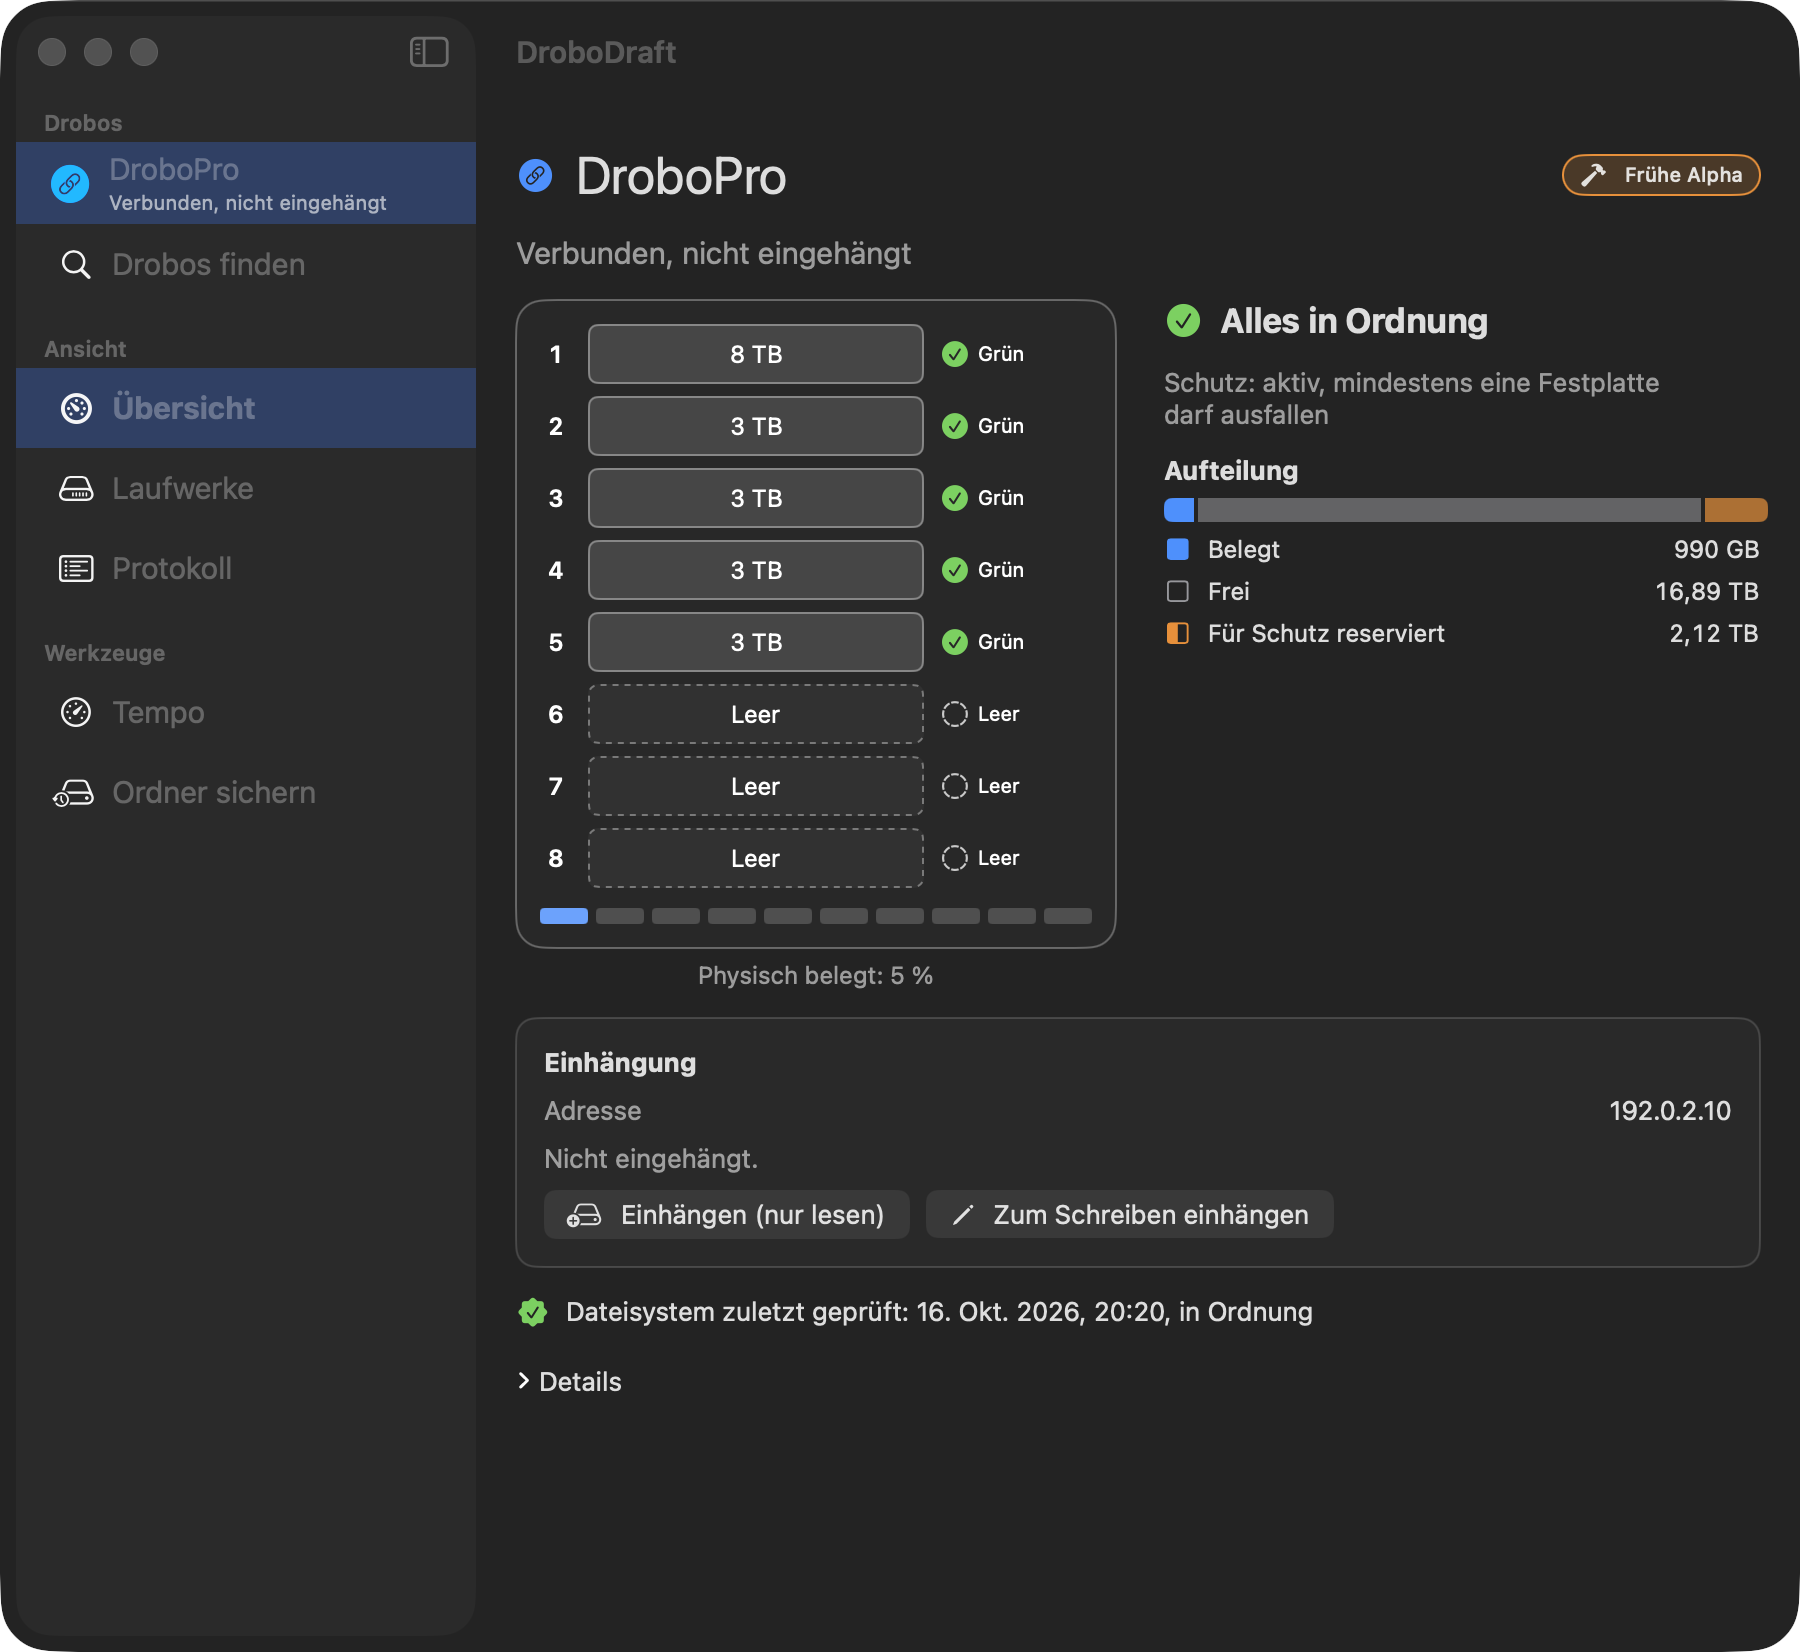
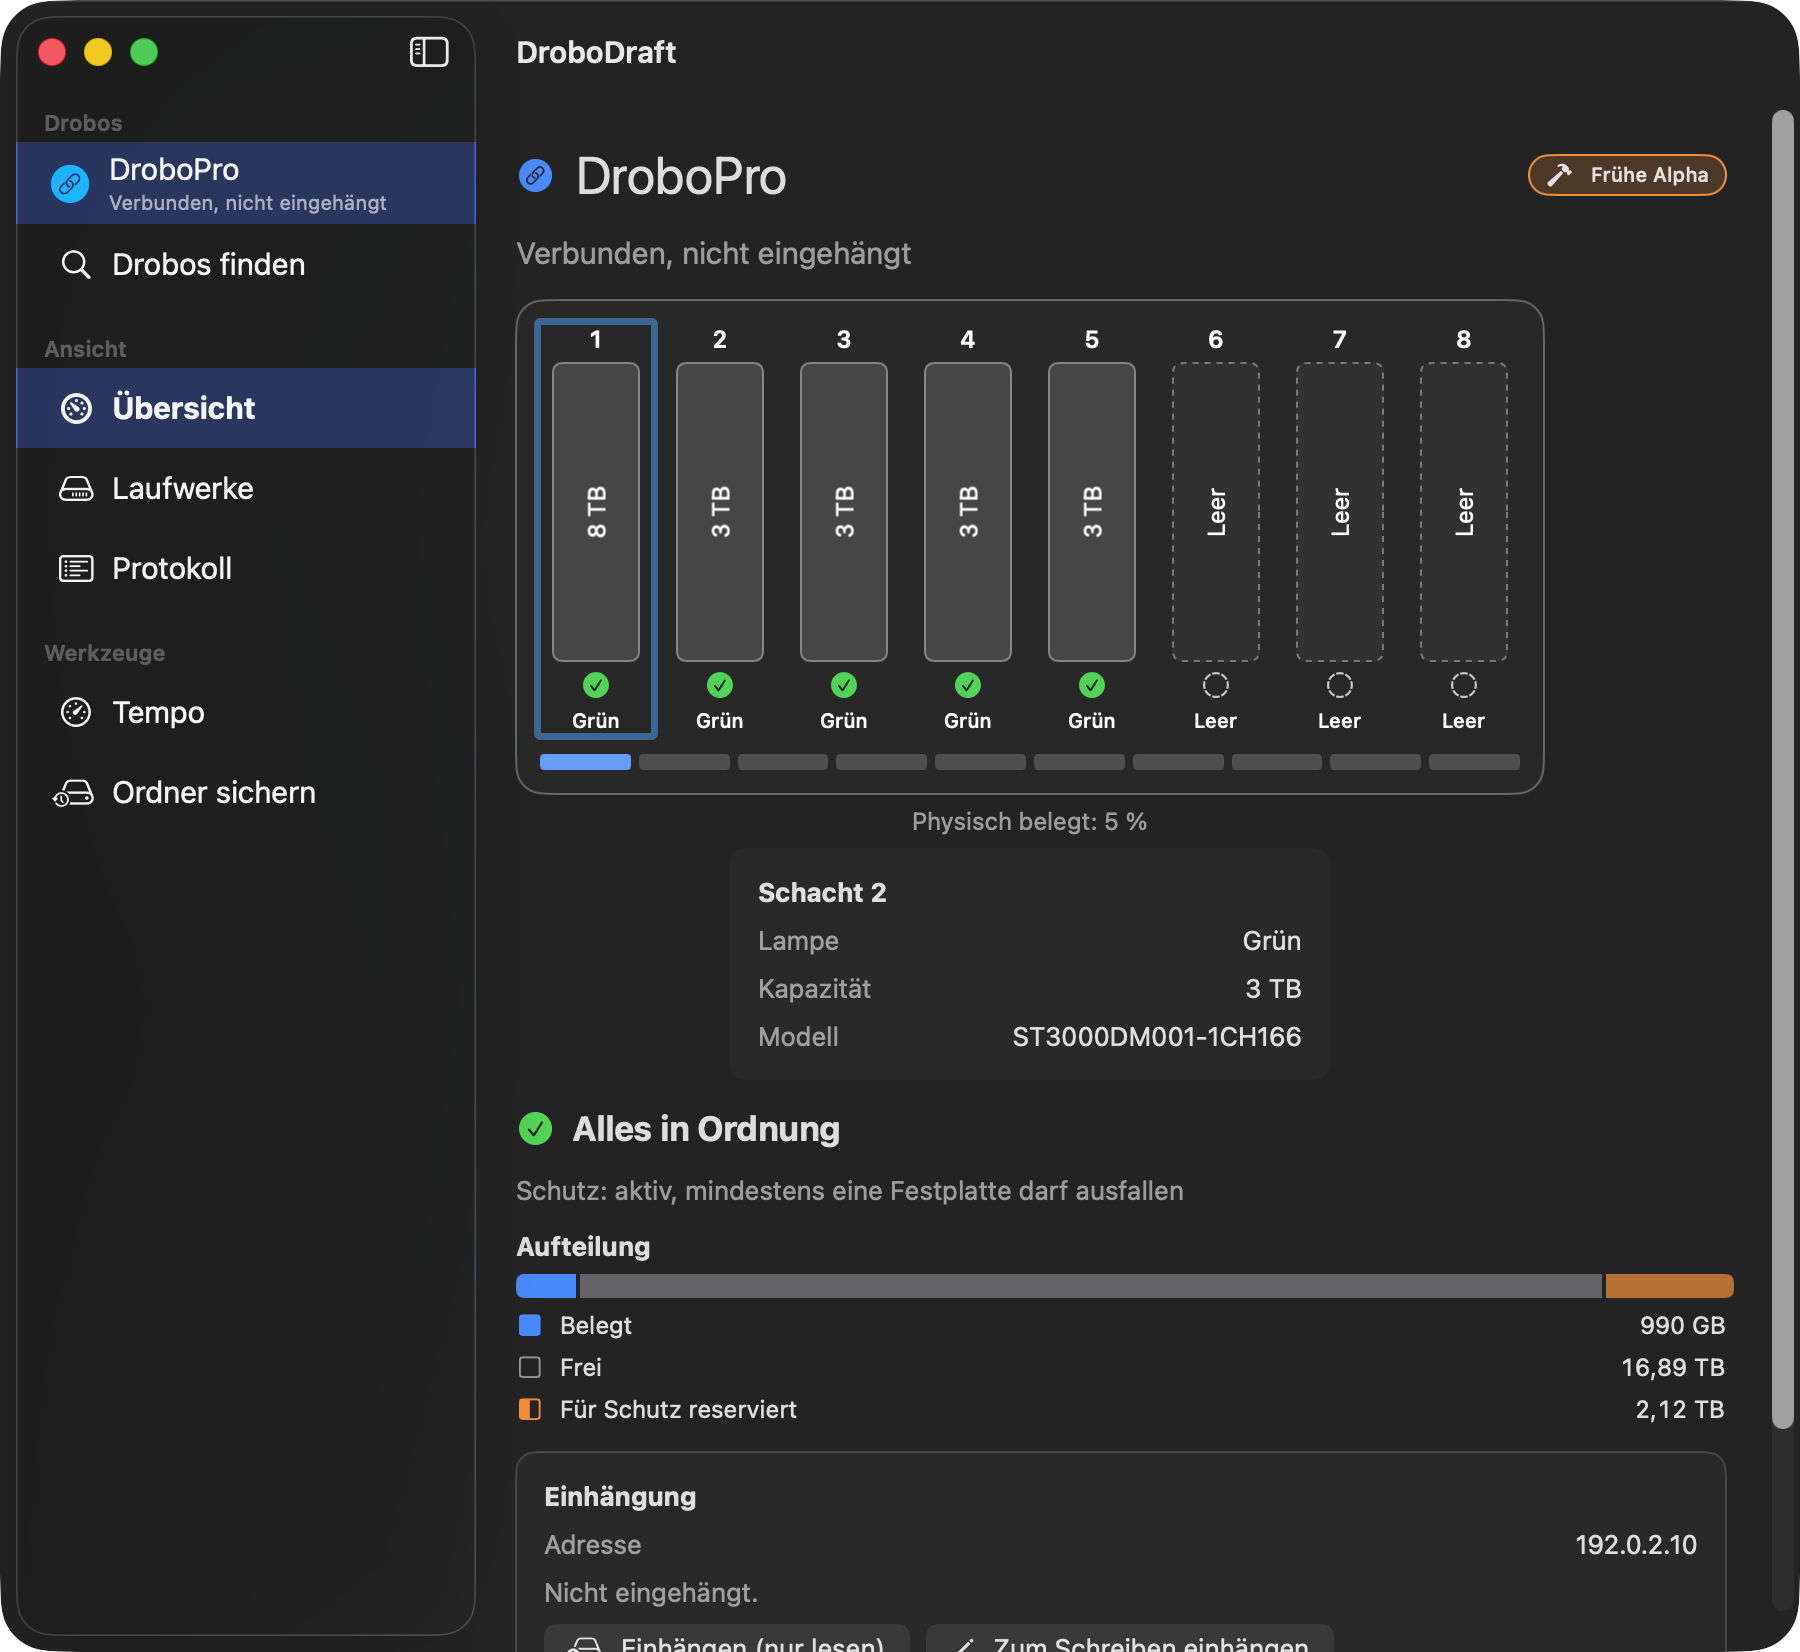
feat(app): 8-bay Drobo drawn with upright side-by-side bays; no sensor rows for the DroboPro
Operator: only the 5-bay Drobo stands upright with stacked slots; the 8-bay
model has vertical slots side by side. Orientation is now a property of the
model (GeraeteLage), 5C stays stacked with bay 1 on top (calibrated on the
device), the DroboPro lays out bay 1 at the left (ASSUMPTION, marked in code:
calibrate by blinking later). Capacity is rotated inside the slot, lamp symbol
and word below, fill strip stays horizontal; ViewThatFits moves the state
column below a wide device. VoiceOver order = bay number. Since page 0x35 never
answers on the DroboPro, its detail shows no temperature/life/error rows and no
placeholder. Demo screenshot replaced.

diff --git a/fskit_probe/App/GeraetBild.swift b/fskit_probe/App/GeraetBild.swift
@@ -4,6 +4,18 @@ import SwiftUI
 /// Gezeichnete Vorderansicht der Drobo: eigene SwiftUI-Formen, kein Logo und keine Grafik des Herstellers.
 /// Schacht 1 oben (am Geraet geeicht 2026-10-16), Lampe je Schacht als Farbe + Symbol + Wort (WCAG 1.4.1), Fuellstandsleiste unten wie am Geraet.
 /// VoiceOver: das Geraet ist ein Container, jeder Schacht ein eigenes Element; Tastaturfokus je Schacht (Button), Klick/Leertaste oeffnet die Einzelheiten.
+/// Einbaulage der Platten: Eigenschaft des MODELLS (nicht der Schachtzahl allein).
+/// gestapelt = waagerechte Einschuebe untereinander, Schacht 1 oben (Drobo 5C: am Geraet geeicht 2026-10-16).
+/// nebeneinander = senkrechte Einschuebe, Schacht 1 links (DroboPro/8 Schaechte: ANNAHME nach Betreiberhinweis, OFFEN: am Geraet per Blinken eichen).
+enum GeraeteLage {
+    case gestapelt, nebeneinander
+    static func von(modell: String, schaechte: Int) -> GeraeteLage {
+        if modell.localizedCaseInsensitiveContains("pro") { return .nebeneinander }   // DroboPro, 8 Schaechte
+        if modell.hasPrefix("5") { return .gestapelt }                                // Drobo 5C / 5D
+        return schaechte > 5 ? .nebeneinander : .gestapelt                            // unbekanntes Modell: nach Schachtzahl
+    }
+}
+
 struct DroboGeraet: View {
     let h: DroboStatus
     let g: Gesamtzustand
@@ -13,15 +25,25 @@ struct DroboGeraet: View {
     /// 5 Schaechte (Drobo 5C) oder 8 (DroboPro); die Statusseite nennt die Zahl, sonst das Modell.
     var anzahl: Int { h.schaechte.isEmpty ? (h.modell.localizedCaseInsensitiveContains("pro") ? 8 : 5) : h.schaechte.count }
 
+    var lage: GeraeteLage { .von(modell: h.modell, schaechte: anzahl) }
+
     var body: some View {
         VStack(spacing: 6) {
-            ForEach(1...anzahl, id: \.self) { n in
-                SchachtFeld(nr: n, s: h.schaechte.first { $0.nr == n }, mitFehler: mitFehler, offen: $offen)
+            if lage == .gestapelt {
+                ForEach(1...anzahl, id: \.self) { n in
+                    SchachtFeld(nr: n, s: h.schaechte.first { $0.nr == n }, mitFehler: mitFehler, lage: lage, offen: $offen)
+                }
+            } else {
+                HStack(alignment: .top, spacing: 6) {   // Reihenfolge = Schachtnummer, auch fuer VoiceOver
+                    ForEach(1...anzahl, id: \.self) { n in
+                        SchachtFeld(nr: n, s: h.schaechte.first { $0.nr == n }, mitFehler: mitFehler, lage: lage, offen: $offen)
+                    }
+                }
             }
             FuellLeiste(anteil: g.belegtAnteil).padding(.top, 4)
         }
         .padding(12)
-        .frame(width: 300)
+        .frame(width: lage == .gestapelt ? 300 : CGFloat(anzahl) * 56 + 6 * CGFloat(anzahl - 1) + 24)
         .background(RoundedRectangle(cornerRadius: 14).fill(Color(white: 0.14)))
         .overlay(RoundedRectangle(cornerRadius: 14).stroke(Color.white.opacity(0.3), lineWidth: 1))
         .environment(\.colorScheme, .dark)   // Geraet bleibt dunkel, auch im hellen Modus; Systemfarben passen sich an
@@ -45,25 +67,36 @@ struct SchachtFeld: View {
     let nr: Int
     let s: Schacht?
     let mitFehler: Bool
+    var lage: GeraeteLage = .gestapelt
     @Binding var offen: Int?
     var belegt: Bool { s?.belegt ?? false }
+    var farbe: SchachtFarbe { s?.farbe ?? .leer }
+    var lampe: Color { farbe.farbe == .secondary ? Color.white.opacity(0.75) : farbe.farbe }
+    var kapText: String { belegt ? groesseText(s?.kapazitaet ?? 0) : String(localized: "Leer") }
 
     var body: some View {
         let beschreibung = schachtBeschreibung(nr: nr, s: s, mitFehler: mitFehler)
         Button { offen = nr } label: {
-            HStack(spacing: 8) {
-                Text("\(nr)").font(.callout.bold().monospacedDigit()).foregroundStyle(.white).frame(width: 16)
-                ZStack {
-                    RoundedRectangle(cornerRadius: 5).fill(Color.white.opacity(belegt ? 0.14 : 0.04))
-                    RoundedRectangle(cornerRadius: 5).strokeBorder(Color.white.opacity(0.35), style: StrokeStyle(lineWidth: 1, dash: belegt ? [] : [3, 3]))
-                    Text(belegt ? groesseText(s?.kapazitaet ?? 0) : String(localized: "Leer")).font(.callout).foregroundStyle(.white).monospacedDigit()
-                }.frame(height: 30)
-                HStack(spacing: 4) {
-                    Image(systemName: (s?.farbe ?? .leer).symbol).foregroundStyle((s?.farbe ?? .leer).farbe == .secondary ? Color.white.opacity(0.75) : (s?.farbe ?? .leer).farbe)
-                    Text((s?.farbe ?? .leer).wortText).font(.caption).foregroundStyle(.white)
-                }.frame(width: 76, alignment: .leading)
+            if lage == .gestapelt {
+                HStack(spacing: 8) {
+                    Text("\(nr)").font(.callout.bold().monospacedDigit()).foregroundStyle(.white).frame(width: 16)
+                    platte.frame(height: 30)
+                    HStack(spacing: 4) {
+                        Image(systemName: farbe.symbol).foregroundStyle(lampe)
+                        Text(farbe.wortText).font(.caption).foregroundStyle(.white)
+                    }.frame(width: 76, alignment: .leading)
+                }
+                .contentShape(Rectangle())
+            } else {
+                VStack(spacing: 4) {
+                    Text("\(nr)").font(.callout.bold().monospacedDigit()).foregroundStyle(.white)
+                    platte.frame(width: 44, height: 150).overlay(Text(kapText).font(.callout).monospacedDigit().foregroundStyle(.white).fixedSize().rotationEffect(.degrees(-90)))
+                    Image(systemName: farbe.symbol).foregroundStyle(lampe)
+                    Text(farbe.wortText).font(.caption2).foregroundStyle(.white).lineLimit(1).minimumScaleFactor(0.7)
+                }
+                .frame(width: 56)
+                .contentShape(Rectangle())
             }
-            .contentShape(Rectangle())
         }
         .buttonStyle(.plain)
         .help(beschreibung)
@@ -71,6 +104,17 @@ struct SchachtFeld: View {
         .accessibilityLabel(beschreibung)
         .accessibilityHint(String(localized: "Zeigt Einzelheiten zur Festplatte"))
         .popover(isPresented: Binding(get: { offen == nr }, set: { if !$0 { offen = nil } }), arrowEdge: .trailing) { SchachtDetail(nr: nr, s: s, mitFehler: mitFehler) }
+    }
+}
+
+extension SchachtFeld {
+    /// Einschub-Blende; im Stapel steht die Kapazitaet darin, bei senkrechten Einschueben legt der Aufrufer den gedrehten Text darueber.
+    var platte: some View {
+        ZStack {
+            RoundedRectangle(cornerRadius: 5).fill(Color.white.opacity(belegt ? 0.14 : 0.04))
+            RoundedRectangle(cornerRadius: 5).strokeBorder(Color.white.opacity(0.35), style: StrokeStyle(lineWidth: 1, dash: belegt ? [] : [3, 3]))
+            if lage == .gestapelt { Text(kapText).font(.callout).foregroundStyle(.white).monospacedDigit() }
+        }
     }
 }
 
@@ -89,7 +133,8 @@ struct SchachtDetail: View {
                 if let t = s.temperatur { Zeile(name: "Temperatur (Rohwert)", wert: "\(t)") }
                 if let r = s.restleben { Zeile(name: "Restlebensdauer (Rohwert)", wert: "\(r)") }
                 if mitFehler { Zeile(name: "Fehler", wert: "\(s.fehler)") }
-                if s.temperatur == nil && s.restleben == nil { Text("Die Drobo meldet für diese Festplatte keine Temperatur und keine Restlebensdauer.").font(.callout).foregroundStyle(.secondary) }
+                // Netzwerk-Drobo (DroboPro): Seite 0x35 antwortet nie (Messbefund 2026-10-17) -> keine Zusatzfelder und kein Platzhalter, Zeilen entfallen
+                if mitFehler && s.temperatur == nil && s.restleben == nil { Text("Die Drobo meldet für diese Festplatte keine Temperatur und keine Restlebensdauer.").font(.callout).foregroundStyle(.secondary) }
             } else { Text("Kein Laufwerk eingesetzt.").foregroundStyle(.secondary) }
         }.padding(14).frame(width: 300)
     }

diff --git a/fskit_probe/App/Uebersicht.swift b/fskit_probe/App/Uebersicht.swift
@@ -25,16 +25,18 @@ struct UebersichtAnsicht: View {
                         Hinweis(symbol: "clock.arrow.circlepath", text: "Dieses Laufwerk ist als Time-Machine-Ziel eingetragen. Die App zeigt nur den Anschluss; macOS verwaltet das Laufwerk und die App hängt es nie selbst ein.", farbe: .blue)
                     }
                     if let h = a.hw, let g = a.hwZustand {
-                        HStack(alignment: .top, spacing: 24) {
-                            VStack(spacing: 6) {
-                                DroboGeraet(h: h, g: g, mitFehler: a.eintrag.netz == nil)
-                                if let p = g.belegtProzent { Text("Physisch belegt: \(p) %").font(.callout).foregroundStyle(.secondary) }
-                                #if DEBUG
-                                // Demo: Popover laesst sich ohne Klick nicht fotografieren -> Einzelheiten des Schachts DROBO_DEMO_SCHACHT stehen darunter
-                                if let n = DemoDaten.schacht { SchachtDetail(nr: n, s: h.schaechte.first { $0.nr == n }, mitFehler: a.eintrag.netz == nil).background(.background.secondary, in: RoundedRectangle(cornerRadius: 8)) }
-                                #endif
-                            }
-                            ZustandsSpalte(g: g, gelb: a.netz?.gelbProzent ?? 85, rot: a.netz?.rotProzent ?? 95)
+                        let geraet = VStack(spacing: 6) {
+                            DroboGeraet(h: h, g: g, mitFehler: a.eintrag.netz == nil)
+                            if let p = g.belegtProzent { Text("Physisch belegt: \(p) %").font(.callout).foregroundStyle(.secondary) }
+                            #if DEBUG
+                            // Demo: Popover laesst sich ohne Klick nicht fotografieren -> Einzelheiten des Schachts DROBO_DEMO_SCHACHT stehen darunter
+                            if let n = DemoDaten.schacht { SchachtDetail(nr: n, s: h.schaechte.first { $0.nr == n }, mitFehler: a.eintrag.netz == nil).background(.background.secondary, in: RoundedRectangle(cornerRadius: 8)) }
+                            #endif
+                        }
+                        let zustand = ZustandsSpalte(g: g, gelb: a.netz?.gelbProzent ?? 85, rot: a.netz?.rotProzent ?? 95)
+                        ViewThatFits(in: .horizontal) {   // breites Geraet (8 senkrechte Schaechte): Spalte rutscht darunter
+                            HStack(alignment: .top, spacing: 24) { geraet; zustand }
+                            VStack(alignment: .leading, spacing: 14) { geraet; zustand }
                         }
                     } else if a.eintrag.rolle != .timemachine {
                         LaufwerkeAnsicht.KeineDaten(netz: a.eintrag.netz != nil)
